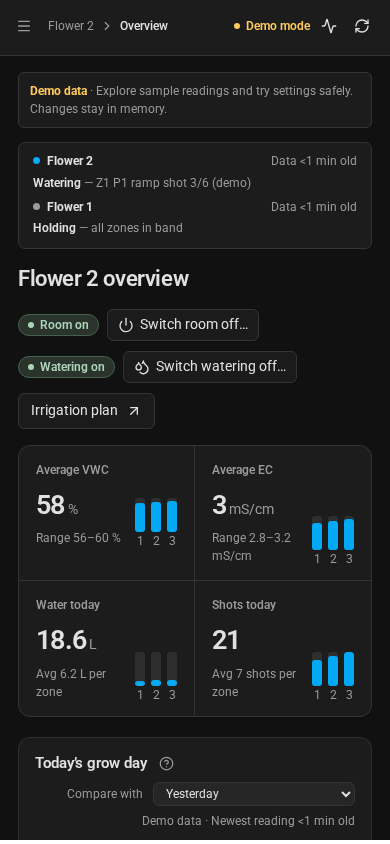
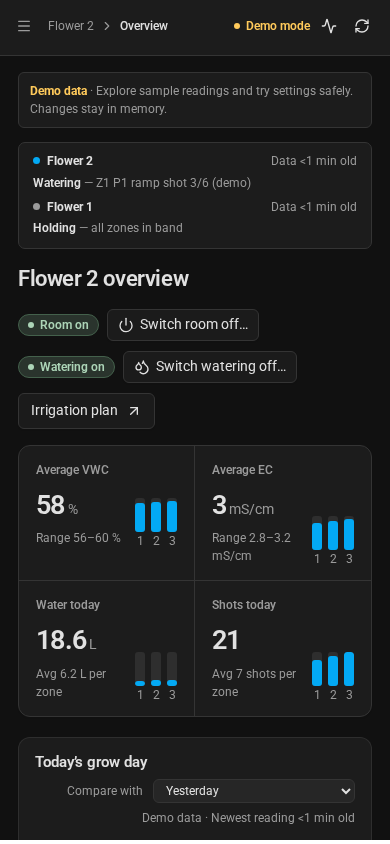
docs: the tidier Overview

diff --git a/docs/USER_GUIDE.md b/docs/USER_GUIDE.md
@@ -31,7 +31,7 @@ New installation? Start with [Install, upgrade and rollback](INSTALL.md).
 
 ## Read a room
 
-**Overview** is the room now: its room and watering switches, alerts, today's totals, the grow-day timeline, each zone's state and readings, and the tank. A zone's name opens its detail panel. The **?** beside **Today's grow day** says how to read the chart: point at or tap it for the details of any moment. **Today's events**, under the chart, lists the day in order: phase changes, shots, holds, and each setting change with who made it (a person as Home Assistant knows them, **Auto setpoints**, or an automation by its name) and the value it replaced. **Insights → Water** has water use over the grow, today's water per plant and a shot calculator. The latest controller records open beside any page from the top bar.
+**Overview** is the room now: its room and watering switches, alerts, today's totals, the grow-day timeline, each zone's state and readings, and the tank. A zone's name opens its detail panel. On **Today's grow day**, each zone's chart has its phase and VWC now above it; **Predictions**, at the right of **Today's events** under the chart, says how each zone is tracking against yesterday (or a typical day), its targets, the water so far and what comes next, and the **?** beside it holds the chart's key, with the switches that hide the projection, the earlier day and the targets. Point at or tap the chart for the details of any moment. **Today's events** lists the day in order: phase changes, shots, holds, and each setting change with who made it (a person as Home Assistant knows them, **Auto setpoints**, or an automation by its name) and the value it replaced. **Insights → Water** has water use over the grow, today's water per plant and a shot calculator. The latest controller records open beside any page from the top bar.
 
 | Indicator                     | Meaning                                                                                                                                                             |
 | ----------------------------- | ------------------------------------------------------------------------------------------------------------------------------------------------------------------- |
@@ -40,7 +40,7 @@ New installation? Start with [Install, upgrade and rollback](INSTALL.md).
 | Controller status and phase   | The controller's reported operating state and P0/P1/P2/P3 phase. Inspect any hold or unavailable status before making changes.                                      |
 | Next                          | What the controller waits for next, by its own numbers: e.g. shot when VWC < 61% (now 58%). Shown while it waters the zone and reports; not a forecast.             |
 | Valve on/off                  | The state of this zone's explicitly mapped switch. It does not establish physical flow.                                                                             |
-| Last irrigation               | A recorded controller event timestamp, with relative age and date/time. It is not inferred from sensor updates. Missing/invalid timestamps remain **Not reported**. |
+| Last irrigation               | A recorded controller event timestamp, on one line: how long ago, and the time (with the day when it was not today). It is not inferred from sensor updates. Missing/invalid timestamps remain **Not reported**. |
 | VWC and root-zone EC          | The mapped substrate measurements. Their units and sensor availability matter independently.                                                                        |
 | Water today                   | The controller's recorded delivery estimate since the room's lights-on boundary, against the zone's daily limit.                                                    |
 | Water use                     | On **Insights → Water**: litres per zone today, this week, since the grow start and estimated for the whole grow, with a bar for each grow week.                    |

diff --git a/CHANGELOG.md b/CHANGELOG.md
@@ -9,6 +9,27 @@ notes**, the entity- and code-level detail for developers and AI agents working 
 The format is based on [Keep a Changelog](https://keepachangelog.com/en/1.0.0/),
 and this project adheres to [Semantic Versioning](https://semver.org/spec/v2.0.0.html).
 
+## [Unreleased]
+
+### 🌱 In plain English
+
+- **A tidier Overview.** On Today's grow day, each zone's chart has just its phase and moisture now
+  above it; how it is tracking against yesterday, its targets, the water so far and what comes next
+  are behind **Predictions**, and the chart's key is behind the **?**, both at the right of Today's
+  events. A zone's last irrigation reads on one line: how long ago, and the time.
+
+### 🔧 Technical notes
+
+- Dashboard: `tracking` returns the zone line's phase and VWC now (shown above its chart, with the
+  whole line as its tooltip) and the rest, which a Predictions popover lists a paragraph per zone.
+  The key (`TimelineKey`, with its layer switches) and the "how to read this chart" note move from
+  under the chart and beside the title into a popover behind a **?**; both popovers carry the
+  `day-timeline` class so the key keeps its colours outside the panel. `LastIrrigation` shows the
+  relative time and the time (or day and time) on one line, the full timestamp as its tooltip.
+- Docs: the user guide's Overview; the Overview screenshot.
+- Tests: the grow-day browser checks read the zone lines and the key through their popovers, and
+  check the key's popover on a dark theme.
+
 ## [2.34.0] - 2026-10-04
 
 Integration and controller **2.34.0**.

diff --git a/custom_components/crop_steering/WHATS_NEW.md b/custom_components/crop_steering/WHATS_NEW.md
@@ -21,6 +21,10 @@ people who build the system:
 `tests/test_whats_new.py` checks the shape and the plain words, and that the newest section is the
 version being released.
 
+## Unreleased
+
+- A tidier Overview: each zone's predictions and the chart's key are a tap away, under the grow day.
+
 ## 2.34.0 - 2026-10-04
 
 - The nutrients go in while the reservoir fills, so a refill is done when its fill time ends.

diff --git a/addons/f2_control/CHANGELOG.md b/addons/f2_control/CHANGELOG.md
@@ -1,3 +1,7 @@
+# Unreleased
+
+- **The dashboard the app serves:** a tidier Overview: each zone's grow-day line is its phase and moisture now, with the rest behind Predictions and the chart's key behind a ?, and a zone's last irrigation on one line. No change to the controller.
+
 # 2.34.0
 
 Pair with integration 2.34.0.
